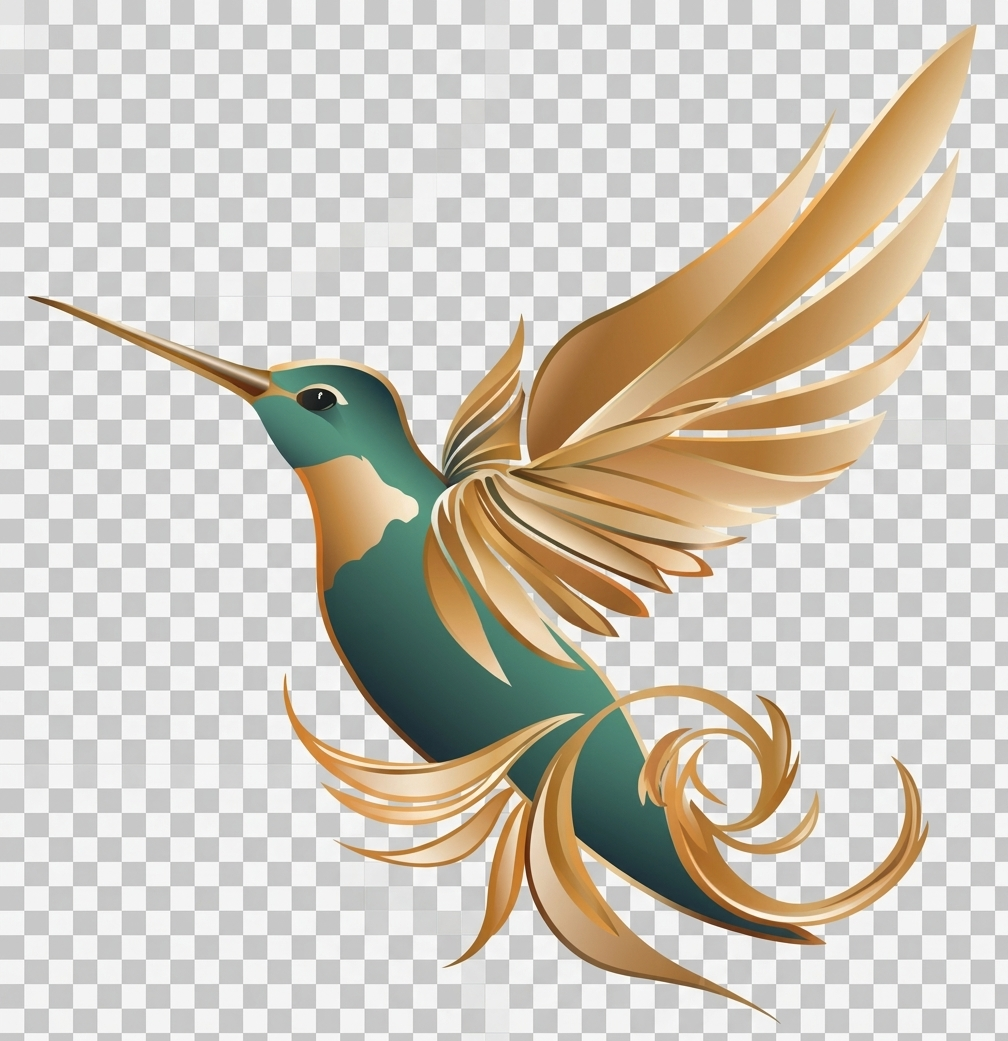
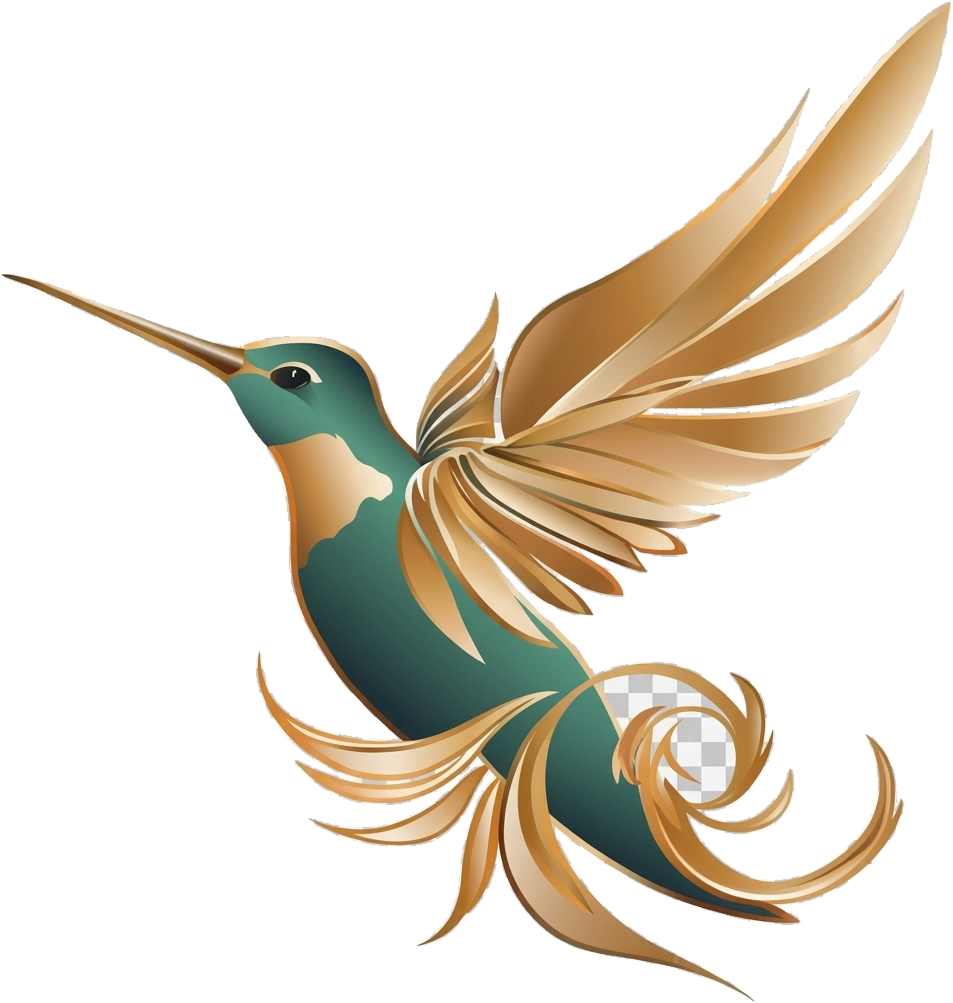
Remplacement colibri escale 1

diff --git a/index.html b/index.html
@@ -752,7 +752,7 @@
         display: block;
         border: 1px solid rgba(201, 161, 74, 0.32);
         border-radius: 16px;
-        box-shadow: 0 12px 28px rgba(88, 76, 48, 0.10);
+        box-shadow: 0 12px 28px rgba(88, 76, 48, 0.1);
       }
       .escale1-content {
         position: relative;
@@ -823,11 +823,10 @@
       }
       .escale1-colibri {
         display: block;
-        width: 104px;
-        height: 82px;
-        margin: 24px auto 0;
-        color: #8a9b6e;
-        filter: drop-shadow(0 6px 10px rgba(156, 122, 45, 0.12));
+        width: 82px;
+        height: auto;
+        margin: 22px auto 0;
+        filter: drop-shadow(0 5px 8px rgba(156, 122, 45, 0.1));
       }
       .escale1-colibri .gold {
         color: var(--gold);
@@ -1243,9 +1242,8 @@
           letter-spacing: 0.045em;
         }
         .escale1-colibri {
-          width: 92px;
-          height: 68px;
-          margin-top: 21px;
+          width: 72px;
+          margin-top: 18px;
         }
         .escale1-meta {
           margin-top: 18px;
@@ -1849,9 +1847,7 @@
             <span></span><i></i><span></span>
           </div>
           <p class="escale1-intro">C’est ici que notre histoire a commencé.</p>
-          <svg class="escale1-colibri" viewBox="0 0 180 120" aria-hidden="true">
-            <use href="#colibriGold" />
-          </svg>
+          <img class="escale1-colibri" src="colibri.png" alt="Colibri" />
         </div>
       </div>
 
